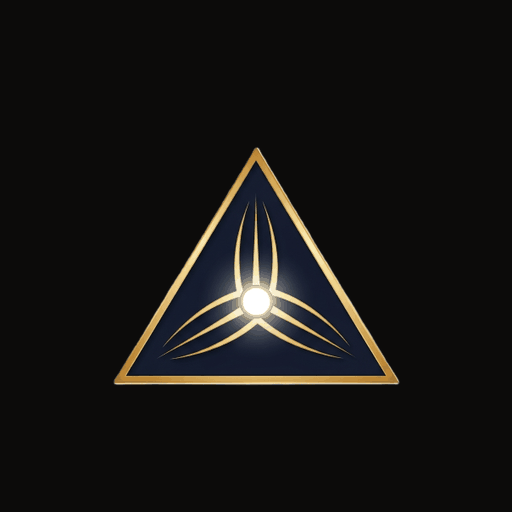
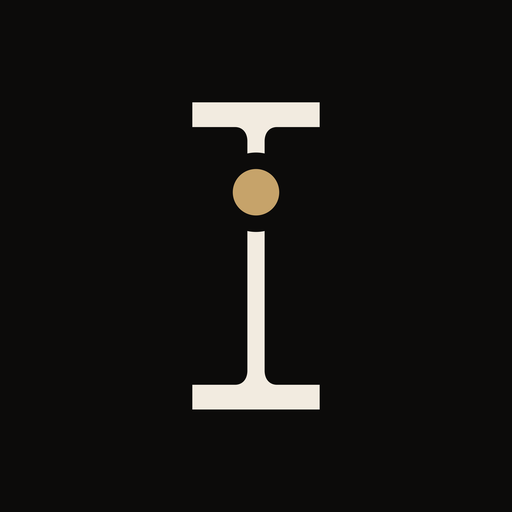
Replace the rejected triangle with the Interval mark
The triangle was rejected, so it is removed rather than left standing in a
branch meant to be reviewed. In its place, as a proposal seen in context:

The Interval — a capital I that is at the same time a measured value with its
uncertainty. The caps are the bounds; the champagne bead is the estimate sitting
inside them. It comes from the language of measurement, which is both the
founder's discipline and the product's own thesis, and it is deliberately none
of the usual shapes: no shield, no checkmark, no node, no brain, no triangle.

- Vector, so it is sharp at every size and weighs under a kilobyte.
- Now the nav mark, the favicon set, the app icon, and the social card.
- Three state variants ship alongside it, where the bead's height inside the
  interval is the decision: allow, review, block. The mark can be used as live
  status inside the product. Nothing on this site uses them yet.

A proposal, not a decision. Reverting is one file and three references.

Claude-Session: https://claude.ai/code/session_016TwN8saot3FWDQQEwKc3h1

Changed region(s): [[0.2188, 0.1875, 0.7812, 0.8125]]

diff --git a/src/styles/rooms.css b/src/styles/rooms.css
@@ -21,7 +21,7 @@
 }
 .nav__inner { display: flex; align-items: center; justify-content: space-between; gap: 24px; width: 100%; }
 .nav__brand { display: inline-flex; align-items: center; gap: 12px; text-decoration: none; }
-.nav__mark { width: 28px; height: 28px; object-fit: contain; }
+.nav__mark { width: auto; height: 26px; object-fit: contain; }
 .nav__wordmark {
   font-family: var(--display); font-weight: 500;
   font-variation-settings: 'opsz' 36;

diff --git a/HOLDS.md b/HOLDS.md
@@ -144,14 +144,23 @@ must be added with SPF and DKIM before this delivers. Add DMARC at the same time
 
 ## Still open
 
-### H3 — the InTellMe mark
-The triangle is rejected. A new mark is proposed: **the Interval** — a capital I that is
-simultaneously a measured value with its uncertainty. Two drawings and a three-state
-family are in the accompanying sheet. Awaiting his choice; nothing has been wired into
-the site.
+### H3 — the InTellMe mark — **provisionally wired, awaiting confirmation**
+The triangle was rejected, so it has been removed rather than left in a branch that is
+supposed to be reviewable. In its place, as a proposal in context: **the Interval** — a
+capital I that is simultaneously a measured value with its uncertainty. The caps are the
+bounds, the champagne bead is the estimate. Drawn from measurement, which is both the
+founder's discipline and the product's thesis, and deliberately none of the AI clichés.
 
-The other four marks — InTellMe wordmark, TruVector, Golden Goose Studio, wAether —
-Brandon is supplying.
+It is now the nav mark, the favicon at every size, and the social card. As vector, so it
+is sharp everywhere and weighs under a kilobyte.
+
+Three state variants ship alongside it — `intellme-state-allow`, `-review`, `-block` —
+where the bead's height inside the interval is the decision. The logo can be used as
+live status inside the product. Nothing on this site uses them yet.
+
+**This is a proposal, not a decision.** If Brandon prefers the slab drawing, or rejects
+the direction, it is one file and three references to change. The other four marks —
+InTellMe wordmark, TruVector, Golden Goose Studio, wAether — he is supplying.
 
 ### H5 — truvector.science
 Confirmed. Investor and research oriented, with member access through to the Emma
